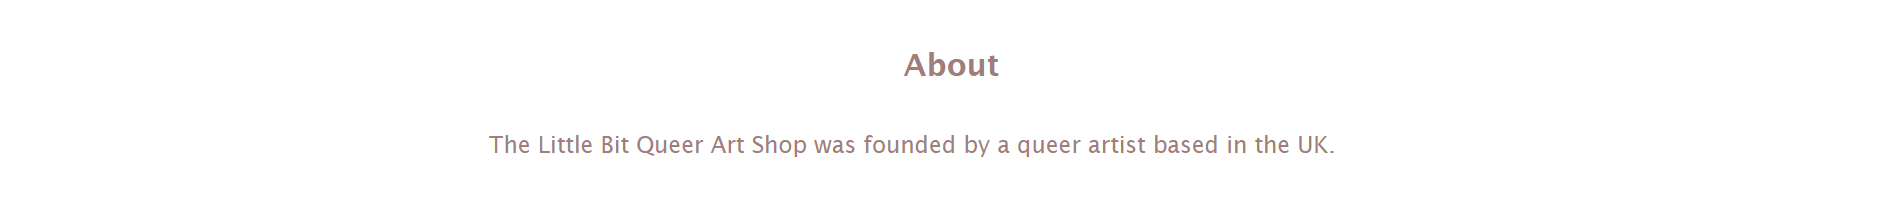
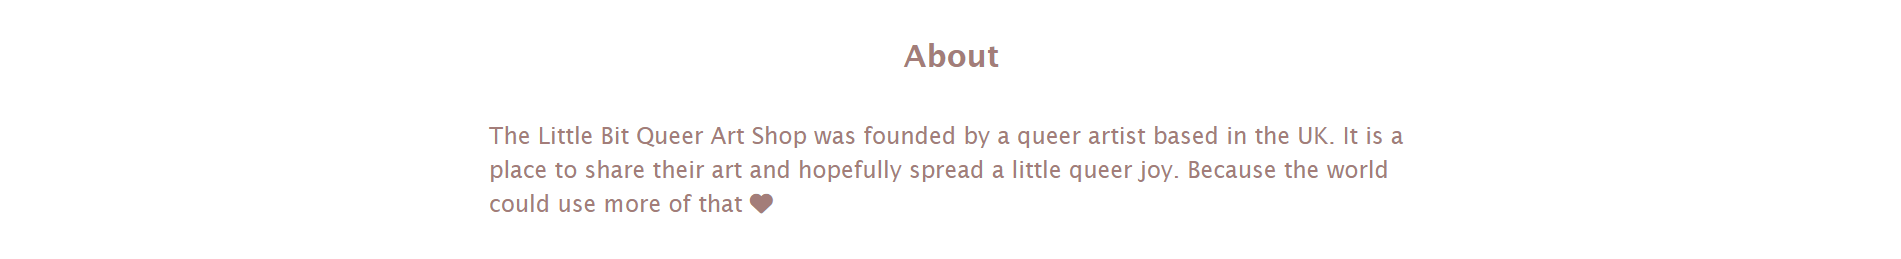
Addition to about section in index.html and README

diff --git a/milestone4_website/templates/index.html b/milestone4_website/templates/index.html
@@ -62,7 +62,7 @@
             <h3 class="text-center pt-5 pb-4">About</h3>
             <div class="col-3"></div>
             <div class="col-6 pt-3 pb-3">
-                <p class="about">The Little Bit Queer Art Shop was founded by a queer artist based in the UK.</p>
+                <p class="about">The Little Bit Queer Art Shop was founded by a queer artist based in the UK. It is a place to share their art and hopefully spread a little queer joy. Because the world could use more of that <i class="fa-solid fa-heart"></i></p>
             </div>
             <div class="col-3"></div>
         </div>

diff --git a/README.md b/README.md
@@ -2,7 +2,7 @@
 
 This project is an online shop for an independent artist to sell their work. It is a Django project consisting of multiple apps and backed by a relational PostgreSQL database which stores user, product and order information. Payments and orders are handled by Stripe. The final project is hosted on Heroku.
 
-![Little Bit Queer Art Shop Homepage](/readme-images/screenshots/home.png)
+![Little Bit Queer Art Shop Homepage](./readme-images/screenshots/home.png)
 
 View the live project [here](https://little-bit-queer-art-shop-bed824a2914a.herokuapp.com/).
 
@@ -42,15 +42,23 @@ View the live project [here](https://little-bit-queer-art-shop-bed824a2914a.hero
 
 ### Header, Footer and Navigation
 
-![Header and Nav](/readme-images/screenshots/header-and-nav.png)
+![Header and Nav](./readme-images/screenshots/header-and-nav.png)
 
-![Footer](/readme-images/screenshots/footer.png)
+The header of the website features the logo for the site and log in/profile and cart buttons. When not logged in, the log in/profile button shows the text 'Log In' and will take the user to the login page. Once logged in, this link will change to show the user's username, and take them to their profile when clicked. The cart is also not accessible without being logged in and will redirect the user to log in (or make an account) first.
+
+Beneath this is the navbar, which has links to the homepage, shop, and the contact page. The current page is indicated with a line at the bottom of the tab. This line also appears when the tabs are hovered over, as well as the text colour changing when the links are hovered over.
+
+At the bottom of each page is a simple footer containing social media links.
+
+![Footer](./readme-images/screenshots/footer.png)
 
 ### Landing Page - About and New Products
 
-![About](/readme-images/screenshots/about.png)
+On the landing page, visitors are met with a simple about section, which gives a brief overview of the site's origin and purpose.
 
-![New Products](/readme-images/screenshots/new-products.png)
+![About](./readme-images/screenshots/about.png)
+
+![New Products](./readme-images/screenshots/new-products.png)
 
 ### Shop Page
 
@@ -143,8 +151,6 @@ I referred to the [Django docs](https://docs.djangoproject.com/en/4.2/intro/tuto
 
 I used this [guidance from Heroku](https://devcenter.heroku.com/articles/django-app-configuration) to help when trying to deploy my Django app.
 
-### Content
+### Content and Media
 
-### Media
-
-All images were drawn by myself.
+All written content and images used on the website and products were created by myself.
